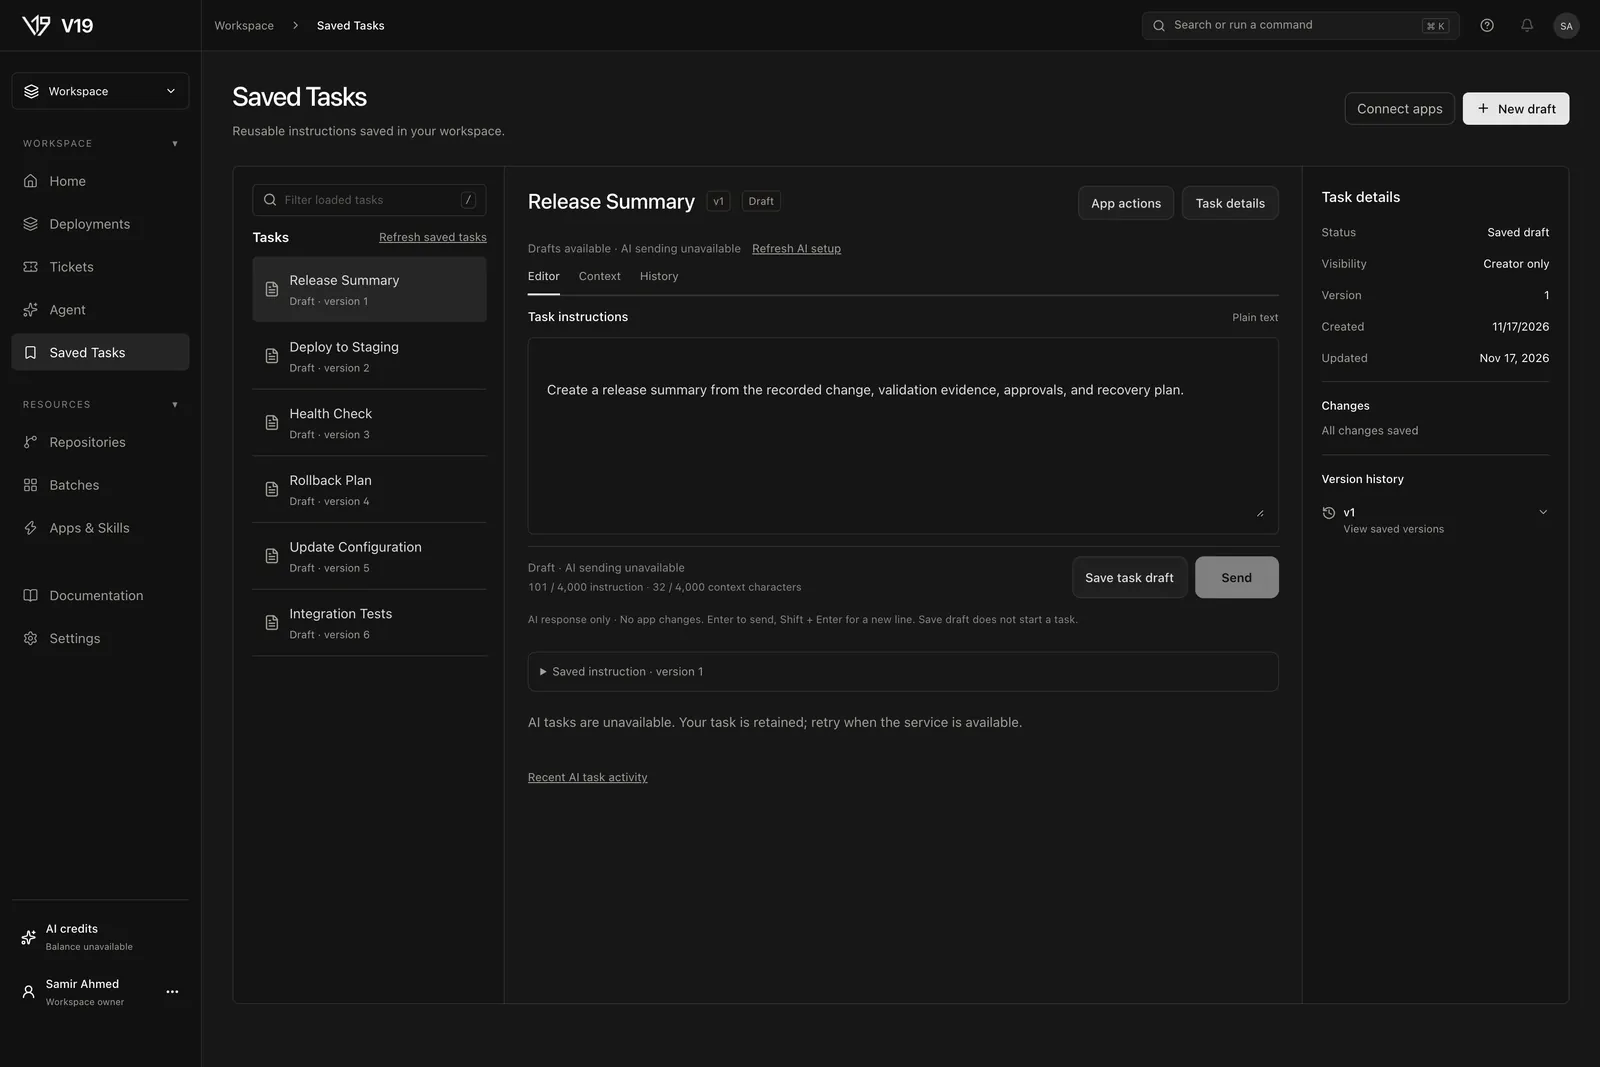
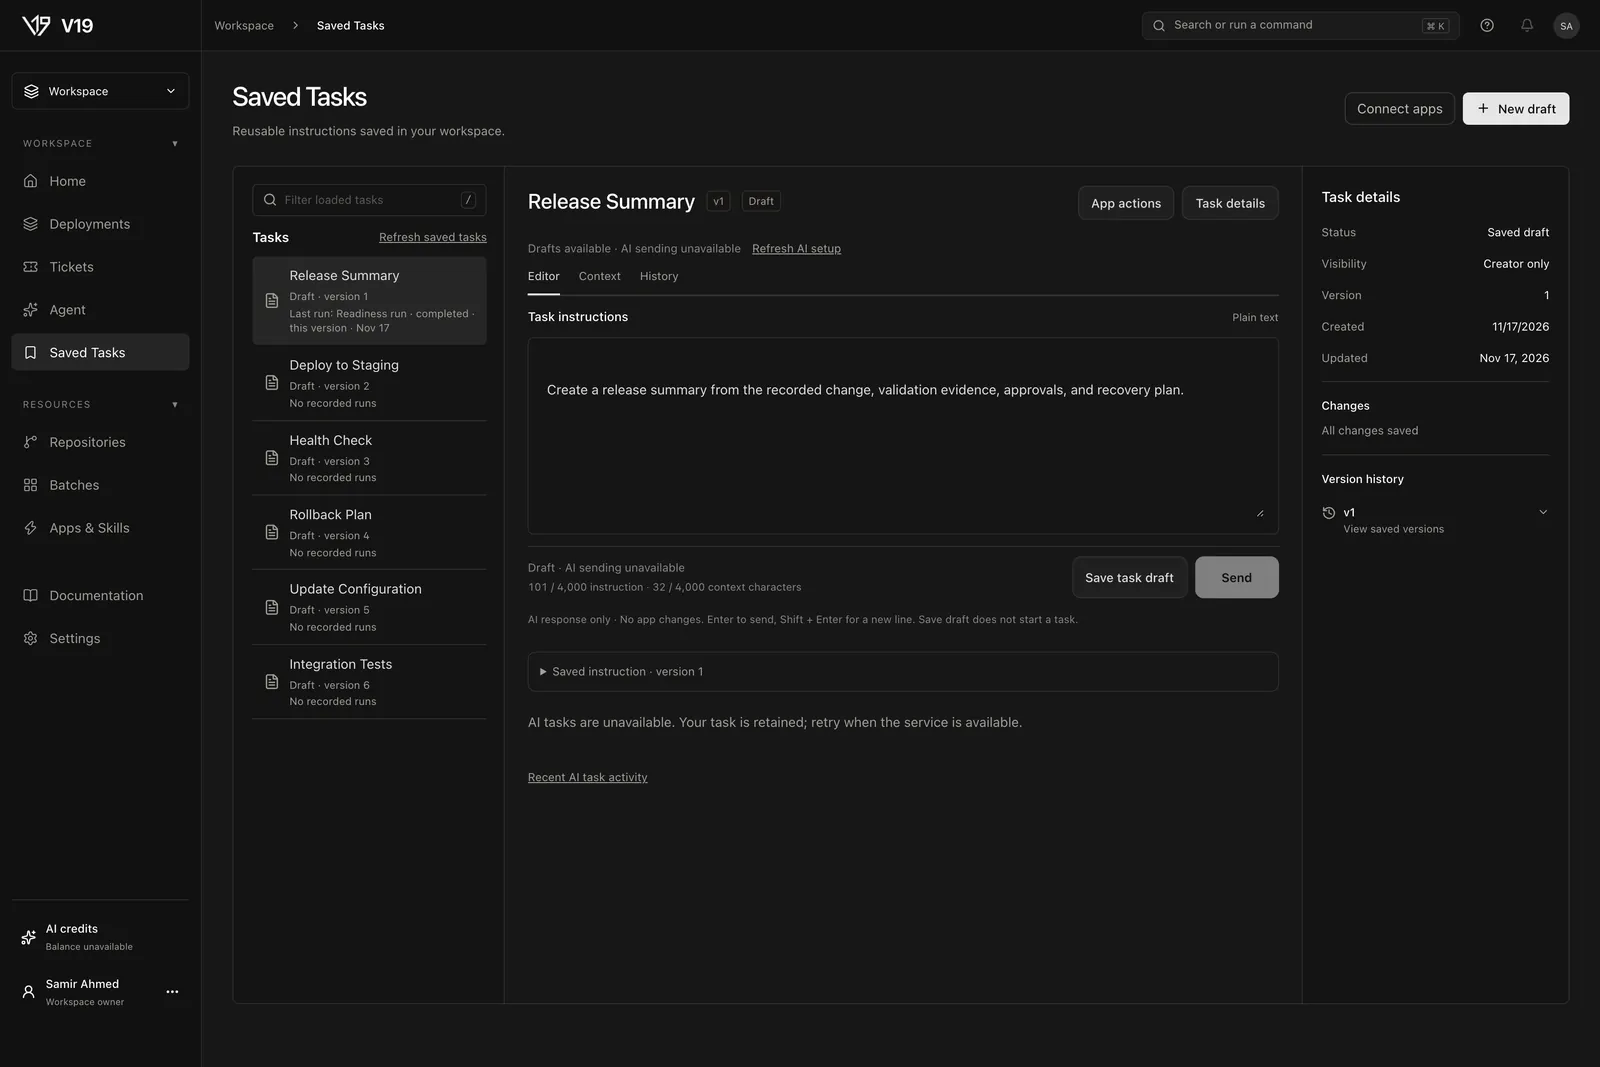
Show 30-day run success rate and median time to complete in Deployments
Monthly/quarterly reference item (Deployments KPIs with a defined window).
New read-only GET /api/desktop/environments/deployments/outcome-summary
(pipeline:read desktop session, no API keys, no query input) summarises the
workspace's recorded workflow executions created in the last 30 days (first
5,000): succeeded/failed only from stored conclusions with a completion time,
success rate over decided runs, median recorded dispatch-to-completion time.
Pure kernel lib/releaseops/deploymentOutcomeSummary.ts with tests.

The Deployments summary row now matches the approved design's four tiles:
Loaded requests, Submitted, Run success rate and Median time to complete,
each with 'Last 30 days'. Unknown stays '—' and a failed read says
'Unavailable', never zero; the read cannot block the view. Drafts and Closed
counts remain on the directory tabs.

Harness: Deployments 5.97% -> 6.03%; Saved Tasks now shows the last-run lines
fixed in 7bde0c7b. Docs and guide images refreshed.

Changed region(s): [[0.1562, 0.2474, 0.25, 0.6804]]

diff --git a/desktop/src/views/DeploymentRequestsView.tsx b/desktop/src/views/DeploymentRequestsView.tsx
@@ -27,7 +27,7 @@ import { DeploymentWorkflowEvidence } from "../components/DeploymentWorkflowEvid
 import { TerraformPlanReview } from "../components/TerraformPlanReview";
 import { useCallback, useEffect, useImperativeHandle, useLayoutEffect, useRef, useState, useSyncExternalStore, type FormEvent, type Ref } from "react";
 import { ExternalLink, ViewShell } from "../components/Primitives";
-import { desktopClient, type DeploymentExecution } from "../lib/desktopClient";
+import { desktopClient, type DeploymentExecution, type DeploymentOutcomeSummaryDto } from "../lib/desktopClient";
 import { createReleaseClosureDrafts, type ReleaseClosureDraft } from "../lib/releaseClosureDrafts";
 
 interface GeneratedPlaybook {
@@ -1264,17 +1264,34 @@ export function DeploymentRequestsView({ active = true, onIntakeOpenChange, save
   );
 }
 
+export function formatOutcomeDuration(seconds: number): string {
+  const minutes = Math.floor(seconds / 60), rest = seconds % 60;
+  if (minutes >= 60) return `${Math.floor(minutes / 60)}h ${minutes % 60}m`;
+  return minutes > 0 ? `${minutes}m ${rest}s` : `${rest}s`;
+}
+
 function LoadedReleaseSummary({requests}: {requests: DeploymentRequestSummary[]}) {
-  const metrics = [
-    {label: "Loaded requests", count: requests.length},
-    {label: "Drafts", count: requests.filter(request => request.status === "draft").length},
-    {label: "Submitted", count: requests.filter(request => request.status === "submitted").length},
-    {label: "Closed", count: requests.filter(request => request.status === "closed").length},
+  // Recorded workflow outcomes over a stated window; unavailable stays unavailable, never zero.
+  const [outcomes, setOutcomes] = useState<DeploymentOutcomeSummaryDto | null | undefined>();
+  useEffect(() => {
+    let live = true;
+    Promise.resolve().then(() => desktopClient.deploymentOutcomeSummary()).then(result => { if (live) setOutcomes(result.ok ? result.data : null); }).catch(() => { if (live) setOutcomes(null); });
+    return () => { live = false; };
+  }, []);
+  const windowLabel = `Last ${outcomes?.windowDays ?? 30} days`;
+  const rate = outcomes === undefined ? "…" : outcomes === null ? "Unavailable" : outcomes.successRate === null ? "—" : `${outcomes.successRate}%`;
+  const median = outcomes === undefined ? "…" : outcomes === null ? "Unavailable" : outcomes.medianSeconds === null ? "—" : formatOutcomeDuration(outcomes.medianSeconds);
+  const metrics: Array<{label: string; value: string; window?: string; title?: string}> = [
+    {label: "Loaded requests", value: requests.length.toLocaleString()},
+    {label: "Submitted", value: requests.filter(request => request.status === "submitted").length.toLocaleString()},
+    {label: "Run success rate", value: rate, window: windowLabel,
+      title: outcomes ? `${outcomes.succeeded} succeeded, ${outcomes.failed} failed of ${outcomes.recorded} recorded workflow runs${outcomes.truncated ? " (first 5,000)" : ""}` : undefined},
+    {label: "Median time to complete", value: median, window: windowLabel, title: "From recorded dispatch to recorded completion, queue time included"},
   ];
-  return <dl aria-label="Loaded release request summary" className="studio-release-summary">
-    {metrics.map(({label, count}) => <div key={label}>
-      <dt>{label}</dt>
-      <dd>{count.toLocaleString()}</dd>
+  return <dl aria-label="Release request and recorded run summary" className="studio-release-summary">
+    {metrics.map(({label, value, window, title}) => <div key={label} title={title}>
+      <dt>{label}{window && <span className="studio-release-summary-window">{window}</span>}</dt>
+      <dd>{value}</dd>
     </div>)}
   </dl>;
 }

diff --git a/app/docs/surfaces/page.tsx b/app/docs/surfaces/page.tsx
@@ -9,7 +9,7 @@ const DESTINATIONS=[
  {name:'Tickets',image:'/docs/desktop/tickets.webp',purpose:'Inspect recorded deployment incidents and change tickets in the workspace.',next:'Open the selected record. Use the source ticket and exact release version to confirm what the available action applies to.'},
  {name:'Agent',image:'/docs/desktop/agent.webp',purpose:'Work with code, local files and research through the Agent conversation.',next:'Inspect the proposed tool and its scope. For a change, follow the exact review and execution controls available in your version.'},
  {name:'Saved Tasks',image:'/docs/desktop/saved-tasks.webp',purpose:'Describe an outcome, keep a saved task, request an AI response or open reviewed app actions.',next:'Check which task owns the response or action. In versions that show it, each task in the list shows its last recorded run (AI task, readiness run or pull request evidence), with the stored status, whether it ran on the current version or an earlier one, and the date, or No recorded runs. Saving a task or receiving an AI response does not authorize a provider action.'},
- {name:'Deployments',image:'/docs/desktop/deployments.webp',purpose:'Find release requests, their plans, exact action reviews and available outcome evidence.',next:'Start with the request’s next required step. The authorized requester and independent reviewer have different responsibilities; a dispatch acknowledgment is not application-health evidence.'},
+ {name:'Deployments',image:'/docs/desktop/deployments.webp',purpose:'Find release requests, their plans, exact action reviews and available outcome evidence. In versions that show them, the summary row adds the run success rate and median time to complete over the last 30 days, counted only from recorded workflow runs; it says Unavailable rather than guessing.',next:'Start with the request’s next required step. The authorized requester and independent reviewer have different responsibilities; a dispatch acknowledgment is not application-health evidence.'},
  {name:'Repositories',image:'/docs/desktop/repositories.webp',purpose:'Select and inspect repository context and use the available local or connected repository controls.',next:'Check the repository, branch and file before editing or proposing a write. Viewing code does not grant commit, push or merge authority.'},
  {name:'Batches',image:'/docs/desktop/batches.webp',purpose:'Inspect supported Airflow workflows, runs and their available automation controls.',next:'Check the configured connection and source run first. The Batches label does not imply that other orchestration services are connected or supported.'},
  {name:'Apps & Skills',image:'/docs/desktop/apps-and-skills.webp',purpose:'Browse connected-app entries and reusable skills, and open the relevant setup or workflow.',next:'Separate a catalogue entry from a validated connection. A skill is reusable guidance, not a permission grant. Setup may require a workspace administrator.'},

diff --git a/lib/releaseops/deploymentOutcomeSummary.ts b/lib/releaseops/deploymentOutcomeSummary.ts
@@ -1,0 +1,41 @@
+/**
+ * Pure 30-day summary of recorded workflow executions for the Deployments KPI
+ * tiles. Only recorded facts are counted: a run is succeeded or failed only
+ * when its stored conclusion says so and it has a completion time; duration is
+ * recorded creation to recorded completion (queue time included).
+ */
+export const OUTCOME_WINDOW_DAYS = 30;
+export const OUTCOME_ROW_LIMIT = 5000;
+export interface ExecutionOutcomeRow { status: string; conclusion: string | null; createdAt: Date; completedAt: Date | null }
+export interface DeploymentOutcomeSummary {
+  windowDays: number;
+  recorded: number;
+  inProgress: number;
+  succeeded: number;
+  failed: number;
+  successRate: number | null;
+  medianSeconds: number | null;
+  truncated: boolean;
+}
+const FAILED = new Set(["failure", "cancelled", "timed_out", "action_required", "startup_failure"]);
+const ACTIVE = new Set(["queued", "in_progress", "waiting", "pending", "requested"]);
+
+export function summarizeDeploymentOutcomes(rows: readonly ExecutionOutcomeRow[], truncated: boolean): DeploymentOutcomeSummary {
+  let inProgress = 0, succeeded = 0, failed = 0;
+  const durations: number[] = [];
+  for (const row of rows) {
+    const done = row.completedAt instanceof Date && !Number.isNaN(row.completedAt.getTime());
+    if (!done) { if (ACTIVE.has(row.status)) inProgress++; continue; }
+    if (row.conclusion === "success") succeeded++;
+    else if (row.conclusion && FAILED.has(row.conclusion)) failed++;
+    else continue;
+    const seconds = (row.completedAt!.getTime() - row.createdAt.getTime()) / 1000;
+    if (Number.isFinite(seconds) && seconds >= 0) durations.push(seconds);
+  }
+  durations.sort((a, b) => a - b);
+  const mid = durations.length >> 1;
+  const medianSeconds = durations.length === 0 ? null : Math.round(durations.length % 2 ? durations[mid] : (durations[mid - 1] + durations[mid]) / 2);
+  const decided = succeeded + failed;
+  return { windowDays: OUTCOME_WINDOW_DAYS, recorded: rows.length, inProgress, succeeded, failed,
+    successRate: decided === 0 ? null : Math.round((succeeded / decided) * 1000) / 10, medianSeconds, truncated };
+}

diff --git a/app/api/desktop/environments/deployments/outcome-summary/route.ts b/app/api/desktop/environments/deployments/outcome-summary/route.ts
@@ -1,0 +1,27 @@
+import { NextResponse, type NextRequest } from "next/server";
+import { prisma } from "@/lib/db";
+import { resolveRequestDesktopSession } from "@/lib/desktop/resolveRequestDesktopSession";
+import { OUTCOME_ROW_LIMIT, OUTCOME_WINDOW_DAYS, summarizeDeploymentOutcomes, type ExecutionOutcomeRow } from "@/lib/releaseops/deploymentOutcomeSummary";
+
+export const dynamic = "force-dynamic";
+export const runtime = "nodejs";
+
+interface OutcomeRepo { deploymentExecution: { findMany(args: { where: { organizationId: string; createdAt: { gte: Date } }; orderBy: { createdAt: "desc" }; take: number; select: { status: true; conclusion: true; createdAt: true; completedAt: true } }): Promise<ExecutionOutcomeRow[]> } }
+
+export async function GET(request: NextRequest): Promise<Response> {
+  const session = await resolveRequestDesktopSession(request, { requiredScope: "pipeline:read", route: "GET /api/desktop/environments/deployments/outcome-summary", allowApiKey: false });
+  if (!session) return NextResponse.json({ ok: false, error: "desktop_session_required" }, { status: 401 });
+  if ([...request.nextUrl.searchParams.keys()].length) return NextResponse.json({ ok: false, error: "outcome_summary_input_invalid" }, { status: 400 });
+  try {
+    const since = new Date(Date.now() - OUTCOME_WINDOW_DAYS * 86_400_000);
+    const rows = await (prisma as unknown as OutcomeRepo).deploymentExecution.findMany({
+      where: { organizationId: String(session.organizationId), createdAt: { gte: since } },
+      orderBy: { createdAt: "desc" }, take: OUTCOME_ROW_LIMIT + 1,
+      select: { status: true, conclusion: true, createdAt: true, completedAt: true },
+    });
+    const truncated = rows.length > OUTCOME_ROW_LIMIT;
+    return NextResponse.json({ ok: true, data: summarizeDeploymentOutcomes(rows.slice(0, OUTCOME_ROW_LIMIT), truncated) }, { headers: { "Cache-Control": "private, no-store" } });
+  } catch {
+    return NextResponse.json({ ok: false, error: "outcome_summary_unavailable" }, { status: 503 });
+  }
+}

diff --git a/lib/releaseops/__tests__/deploymentOutcomeSummary.test.ts b/lib/releaseops/__tests__/deploymentOutcomeSummary.test.ts
@@ -1,0 +1,23 @@
+import { describe, expect, it } from "vitest";
+import { summarizeDeploymentOutcomes } from "../deploymentOutcomeSummary";
+const at = (m: number) => new Date(Date.UTC(2026, 10, 20, 10, m));
+describe("deployment outcome summary", () => {
+  it("counts only recorded conclusions and takes the median recorded duration", () => {
+    const s = summarizeDeploymentOutcomes([
+      { status: "completed", conclusion: "success", createdAt: at(0), completedAt: at(4) },
+      { status: "completed", conclusion: "success", createdAt: at(0), completedAt: at(10) },
+      { status: "completed", conclusion: "failure", createdAt: at(0), completedAt: at(6) },
+      { status: "in_progress", conclusion: null, createdAt: at(0), completedAt: null },
+      { status: "completed", conclusion: "neutral", createdAt: at(0), completedAt: at(2) },
+      { status: "tracking_unavailable", conclusion: null, createdAt: at(0), completedAt: null },
+    ], false);
+    expect(s).toEqual({ windowDays: 30, recorded: 6, inProgress: 1, succeeded: 2, failed: 1, successRate: 66.7, medianSeconds: 360, truncated: false });
+  });
+  it("reports no rate or duration when nothing concluded", () => {
+    expect(summarizeDeploymentOutcomes([], true)).toMatchObject({ successRate: null, medianSeconds: null, recorded: 0, truncated: true });
+  });
+  it("ignores impossible durations without dropping the outcome count", () => {
+    const s = summarizeDeploymentOutcomes([{ status: "completed", conclusion: "success", createdAt: at(10), completedAt: at(5) }], false);
+    expect(s).toMatchObject({ succeeded: 1, successRate: 100, medianSeconds: null });
+  });
+});

diff --git a/desktop/src/lib/desktopClient.ts b/desktop/src/lib/desktopClient.ts
@@ -160,6 +160,7 @@ export interface AirflowAutomation {
 }
 export interface AirflowAutomationExecution { id: string; automationId: string; sourceDagId: string; sourceDagRunId: string; sourceDagState: string; status: string; attempt: number; errorCode: string | null; resultJson: unknown; createdAt: string }
 
+export interface DeploymentOutcomeSummaryDto { windowDays: number; recorded: number; inProgress: number; succeeded: number; failed: number; successRate: number | null; medianSeconds: number | null; truncated: boolean }
 export interface DeploymentExecutionEvidence {
   operation: "unknown";
   requestedOperation?: "service_restart";
@@ -1340,6 +1341,10 @@ export class DesktopClient {
 
   preflightAwsDeploy(input: { repositoryFullName: string; environmentId: string; sourceRef: string; sourceKind: "branch" | "tag"; pullRequestNumber?: number; promotedFromExecutionId?: string; emergencyBypass?: boolean; bypassReason?: string }): Promise<ApiResult<{ evidence?: DeploymentExecutionEvidence; ready: true; policyId: string | null; sourceCommitSha: string; pullRequestUrl: string | null; governanceMode: "policy_enforced" | "emergency_bypass" }>> {
     return this.post("/api/desktop/environments/deploy/preflight", input);
+  }
+
+  deploymentOutcomeSummary(): Promise<ApiResult<DeploymentOutcomeSummaryDto>> {
+    return this.get("/api/desktop/environments/deployments/outcome-summary");
   }
 
   listDeploymentExecutions(environmentId?: string): Promise<ApiResult<{ executions: DeploymentExecution[] }>> {

diff --git a/lib/desktop/__tests__/releaseIntakeNavigation.test.ts b/lib/desktop/__tests__/releaseIntakeNavigation.test.ts
@@ -742,11 +742,14 @@ it('shows only the selected request’s recorded lifecycle stages without trigge
 it('summarizes only loaded release requests and retains totals through directory filters',async()=>{
   render(createElement(App));
   fireEvent.click(await screen.findByRole('button',{name:'Deployments'}));
-  const summary=await screen.findByLabelText('Loaded release request summary');
-  expect(Array.from(summary.querySelectorAll('dd'),count=>count.textContent)).toEqual(['2','2','0','0']);
+  const summary=await screen.findByLabelText('Release request and recorded run summary');
+  const counts=()=>Array.from(summary.querySelectorAll('dd'),count=>count.textContent);
+  expect(counts().slice(0,2)).toEqual(['2','0']);
+  // Recorded run outcomes come from a separate read and never show a guessed zero.
+  await waitFor(()=>expect(counts().slice(2).every(value=>value==='Unavailable'||value==='—'||/%$|s$|m$/.test(value??''))).toBe(true));
   fireEvent.click(screen.getByRole('button',{name: /^Submitted$/}));
   expect(screen.getByText('No loaded releases match.')).toBeTruthy();
-  expect(Array.from(summary.querySelectorAll('dd'),count=>count.textContent)).toEqual(['2','2','0','0']);
+  expect(counts().slice(0,2)).toEqual(['2','0']);
   expect(requests.every(request=>request.method==='GET'||request.method==='HEAD')).toBe(true);
 });
 

diff --git a/desktop/src/styles.css b/desktop/src/styles.css
@@ -1416,6 +1416,7 @@ html:not([data-theme="light"]) .studio-docs-example-code { background: #121212; 
 .studio-release-summary > div:first-child { padding-inline-start: 0; }
 .studio-release-summary > div + div { border-inline-start: 1px solid rgb(var(--axiom-border)); }
 .studio-release-summary dt { color: rgb(var(--neutral-zinc-400)); font-size: 12px; }
+.studio-release-summary-window { margin-inline-start: 8px; color: rgb(var(--neutral-zinc-500)); font-size: 11px; }
 .studio-release-summary dd { order: -1; color: rgb(var(--neutral-zinc-200)); font-size: 22px; font-weight: 500; font-variant-numeric: tabular-nums; }
 @media (max-width: 620px) {
   .studio-release-summary { grid-template-columns: repeat(2, minmax(0, 1fr)); row-gap: 10px; }
